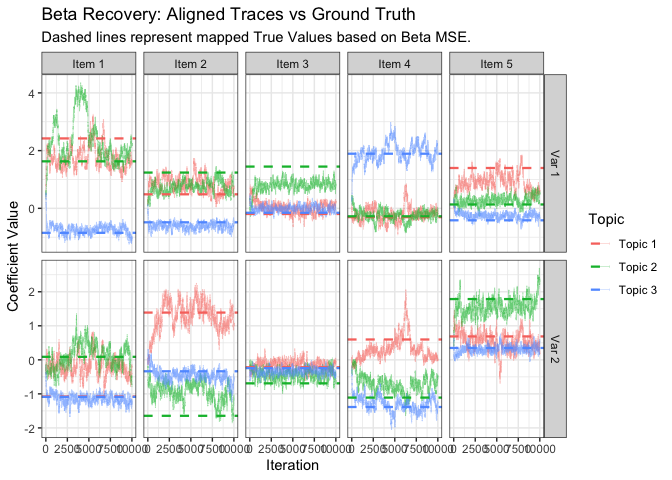
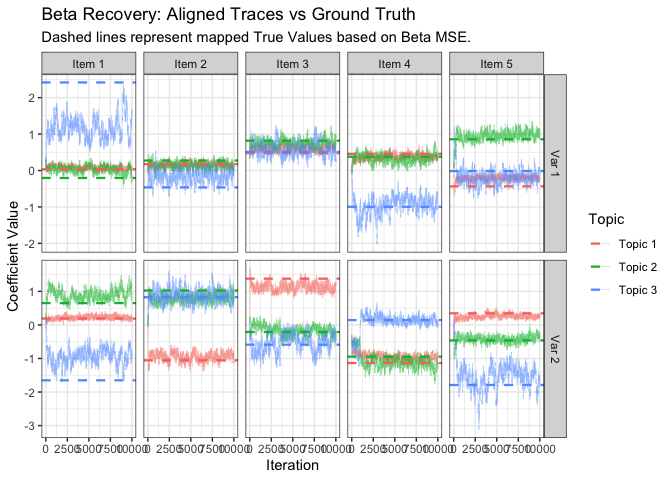
update README

diff --git a/README.md b/README.md
@@ -33,7 +33,7 @@ We generate a synthetic dataset.
 library(MRDLTM)
 library(bayesplot)
 library(tidyverse)
-set.seed(42)
+set.seed(123)
 
 n_topic = 3
 toy = generate_toy_data(
@@ -42,7 +42,7 @@ toy = generate_toy_data(
 )
 
 cat("Observed Purchase Rate:", mean(toy$observations$data$y), "\n")
-#> Observed Purchase Rate: 0.5912692
+#> Observed Purchase Rate: 0.5715769
 ```
 
 ### 2. Model Estimation
@@ -62,7 +62,7 @@ timer = system.time({
 #> Starting Gibbs Sampling: 10000 iterations (burn-in: 5000)
 
 cat(sprintf("Total Elapsed Time: %.2f minutes\n", timer["elapsed"] / 60))
-#> Total Elapsed Time: 1.44 minutes
+#> Total Elapsed Time: 1.47 minutes
 ```
 
 Handle the label-switching issue.
@@ -83,7 +83,7 @@ res_fixed = reorder_mrdltm(res, burnin = burnin)
 #>     Retrieve the 1 best clusterings: [...]$clusters
 #>     Retrieve the 1 CPU times: [...]$timings
 #>     Retrieve the 1 X 1 similarity matrix: [...]$similarity
-#>     Label switching finished. Total time: 9.8 seconds.
+#>     Label switching finished. Total time: 10.4 seconds.
 ```
 
 ## Diagnostics and Recovery
@@ -94,7 +94,7 @@ Check the convergence of the Log-Likelihood and the recovery of
 marketing response coefficients ($\beta$).
 
 ``` r
-log_lik_all = extract_samples(res_fixed, "log_lik")
+log_lik_all = extract_samples(res, "log_lik")
 mcmc_trace(log_lik_all) +
   geom_vline(xintercept = burnin, color = "red", linetype = "dashed") +
   ggtitle("Log-Likelihood Trace (Red line: end of burn-in)")
@@ -121,7 +121,7 @@ for (z_est in 1:n_topic) {
   mapping[z_est] = which.min(mses)
 }
 cat("Topic Mapping (Estimated -> True):", paste(1:n_topic, "->", mapping, collapse = ", "), "\n")
-#> Topic Mapping (Estimated -> True): 1 -> 3, 2 -> 2, 3 -> 1
+#> Topic Mapping (Estimated -> True): 1 -> 3, 2 -> 1, 3 -> 2
 
 # Prepare data for Beta Grid Plot
 plot_data_beta = map_dfr(1:n_var, function(v) {
